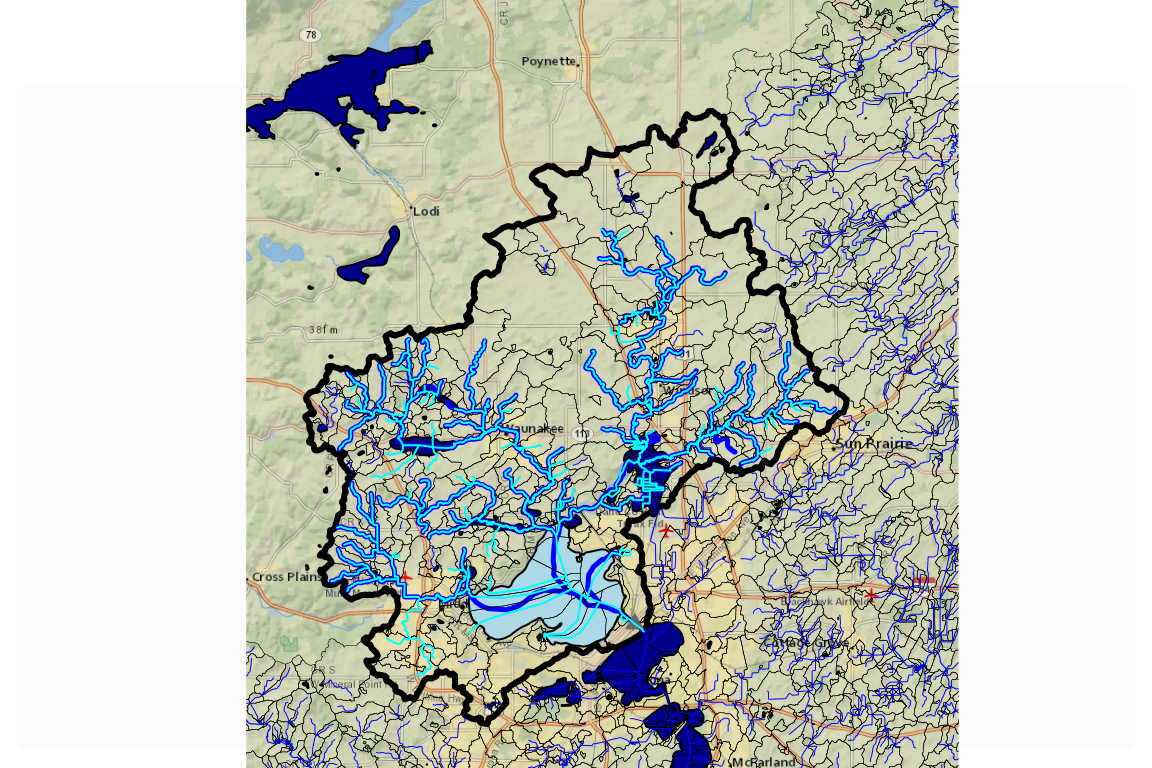
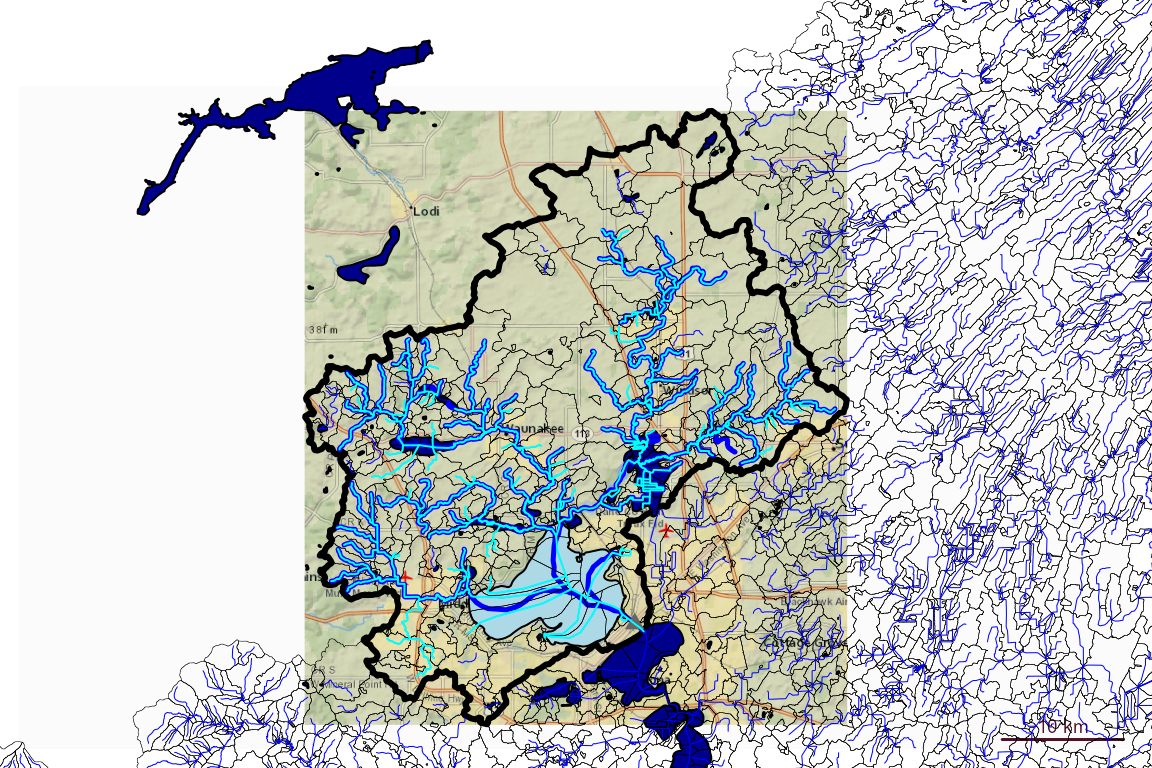
Merge pull request #471 from DOI-USGS/release-1.5.0
Release 1.5.0

Pull request: Release 1.5.0

Changed region(s): [[0.0938, 0.0, 1.0, 1.0], [0.0, 0.9688, 0.0312, 1.0]]

diff --git a/docs/CLAUDE.html b/docs/CLAUDE.html
@@ -17,7 +17,7 @@
       </button>
       <span class="navbar-brand">
         <a class="navbar-link" href="index.html">nhdplusTools</a>
-        <span class="version label label-default" data-toggle="tooltip" data-placement="bottom" title="">1.5.0.9000</span>
+        <span class="version label label-default" data-toggle="tooltip" data-placement="bottom" title="">1.5.0</span>
       </span>
     </div>
 
@@ -54,15 +54,36 @@
 
 
 <div class="section level2">
+<h2 id="rename-to-hydrogeofetch">Rename to <code>hydrogeofetch</code>
+<a class="anchor" aria-label="anchor" href="#rename-to-hydrogeofetch"></a></h2>
+<p><code>nhdplusTools</code> is being renamed to <code>hydrogeofetch</code> (hydrologic geospatial fabric extraction tool chain) with a 2-year sunset ending <strong>October 2028</strong>, at which point <code>nhdplusTools</code> will be archived on CRAN.</p>
+<ul><li>
+<strong>Pure rename</strong>: function names and signatures stay identical in <code>hydrogeofetch</code> v1.0. No renames or signature changes during the sunset — the shim depends on stability. Cleanup happens post-archive or in <code>hydrogeofetch</code> 2.0 with its own deprecation cycle.</li>
+<li>
+<strong><code>hydrogeofetch</code> v1.0</strong> is a drop-in equivalent with some non-breaking updates.</li>
+<li>
+<strong><code>nhdplusTools</code> API is frozen</strong>. Critical bug fixes only — no features, no refactors, unless explicitly asked.</li>
+<li>
+<strong>Shim</strong>: once <code>hydrogeofetch</code> is on CRAN, <code>nhdplusTools</code> becomes function-level <code><a href="https://rdrr.io/r/base/Deprecated.html" class="external-link">.Deprecated()</a></code> aliases forwarding to <code>hydrogeofetch::*</code>. Maintained as a branch in the renamed repo.</li>
+<li>
+<strong>Repo</strong>: rename in place to <code>hydrogeofetch</code> (preserves issues, PRs, redirects). Timing within the sunset window.</li>
+<li>
+<strong>Cache</strong>: <code>hydrogeofetch</code> replaces the cache layer with no migration; users re-download on switch.</li>
+<li>
+<strong>Reverse deps</strong> (small, friendly): <code>amadeus</code>, <code>elfgen</code>, <code>StreamCatTools</code> — coordinate directly.</li>
+<li>
+<strong>DOIs</strong>: USGS-minted. <code>hydrogeofetch</code> gets a new USGS software release on code.usgs.gov with its own DOI. The existing <code>nhdplusTools</code> DOI will redirect to a historical release page for <code>hydrogeofetch</code>.</li>
+<li>
+<strong>USGS software release</strong> for <code>hydrogeofetch</code> starts as soon as the renamed code is on GitHub, before CRAN submission.</li>
+</ul><p>When working in this repo, treat <code>nhdplusTools</code> as frozen and <code>hydrogeofetch</code> v1.x as the future canonical line. Avoid signature changes to public functions — they break the shim.</p>
+</div>
+<div class="section level2">
 <h2 id="commands">Commands<a class="anchor" aria-label="anchor" href="#commands"></a></h2>
 <ul><li><code><a href="https://devtools.r-lib.org/reference/test.html" class="external-link">devtools::test()</a></code></li>
 <li>
 <code><a href="https://devtools.r-lib.org/reference/check.html" class="external-link">devtools::check()</a></code> — R CMD check</li>
 <li>
 <code><a href="https://devtools.r-lib.org/reference/document.html" class="external-link">devtools::document()</a></code> — rebuild roxygen docs</li>
-<li>Rscript: <code>/c/Users/dblodgett/AppData/Local/Programs/R/R-4.5.2/bin/Rscript.exe</code>
-</li>
-<li>multiline commands must be run in a script to avoid terminal errors (segfaults)</li>
 </ul></div>
 <div class="section level2">
 <h2 id="style">Style<a class="anchor" aria-label="anchor" href="#style"></a></h2>

diff --git a/docs/index.html b/docs/index.html
@@ -39,7 +39,7 @@
       </button>
       <span class="navbar-brand">
         <a class="navbar-link" href="index.html">nhdplusTools</a>
-        <span class="version label label-default" data-toggle="tooltip" data-placement="bottom" title="">1.5.0.9000</span>
+        <span class="version label label-default" data-toggle="tooltip" data-placement="bottom" title="">1.5.0</span>
       </span>
     </div>
 
@@ -82,6 +82,15 @@
 <div class="page-header"><h1 id="nhdplustools-">nhdplusTools <img src="reference/figures/logo.png" align="right" alt="" width="120"><a class="anchor" aria-label="anchor" href="#nhdplustools-"></a>
 </h1></div>
 <p><img src="https://github.com/doi-usgs/nhdplusTools/workflows/R-CMD-check/badge.svg" alt="R-CMD-check"><a href="https://app.codecov.io/gh/doi-usgs/nhdplusTools" class="external-link"><img src="https://codecov.io/gh/doi-usgs/nhdplusTools/branch/master/graph/badge.svg" alt="codecov"></a> <a href="https://cran.r-project.org/package=nhdplusTools" class="external-link"><img src="https://cranlogs.r-pkg.org/badges/grand-total/nhdplusTools" alt="CRAN Downloads"></a> <a href="https://cran.r-project.org/package=nhdplusTools" class="external-link"><img src="https://www.r-pkg.org/badges/version/nhdplusTools" alt="CRAN"></a></p>
+<div class="section level2">
+<h2 id="renaming-to-hydrogeofetch">Renaming to <code>hydrogeofetch</code>
+<a class="anchor" aria-label="anchor" href="#renaming-to-hydrogeofetch"></a>
+</h2>
+<p><code>nhdplusTools</code> is being renamed to <code>hydrogeofetch</code> (hydrologic geospatial fabric extraction tool chain). The package’s scope has grown beyond NHDPlus, and the name is no longer accurate. <code>hydrogeofetch</code> will be a pure rename. Functions, function signatures, behavior, will all stay the same. <code>hydrogeofetch</code> will be published to CRAN as a new package.</p>
+<p>Development on <code>nhdplusTools</code> has stopped; only critical bug fixes will be applied. Once <code>hydrogeofetch</code> v1.0 is released, <code>nhdplusTools</code> will become a deprecation shim that forwards calls to <code>hydrogeofetch</code> with a deprecation warnings. The shim will remain on CRAN until <strong>October 2028</strong>, at which point <code>nhdplusTools</code> will be archived. Archived packages stay installable from the CRAN archive, so code pinned to <code>nhdplusTools</code> will continue to run.</p>
+<p>Plan to switch to <code>hydrogeofetch</code> once v1.0 is available.</p>
+<p>Follow this repository to keep up to date!</p>
+</div>
 <div class="section level2">
 <h2 id="nhdplustools-tools-for-accessing-and-working-with-the-nhdplus-and-other-us-hydrographic-data">nhdplusTools: Tools for Accessing and Working with the NHDPlus and other US hydrographic data.<a class="anchor" aria-label="anchor" href="#nhdplustools-tools-for-accessing-and-working-with-the-nhdplus-and-other-us-hydrographic-data"></a>
 </h2>
@@ -239,10 +248,7 @@
 <div class="section level1">
 <h1 id="disclaimer">Disclaimer<a class="anchor" aria-label="anchor" href="#disclaimer"></a>
 </h1>
-<p>This information is preliminary or provisional and is subject to revision. It is being provided to meet the need for timely best science. The information has not received final approval by the U.S. Geological Survey (USGS) and is provided on the condition that neither the USGS nor the U.S. Government shall be held liable for any damages resulting from the authorized or unauthorized use of the information.</p>
-<p>From: <a href="https://www.usgs.gov/office-of-science-quality-and-integrity/fundamental-science-practices#5" class="external-link uri">https://www.usgs.gov/office-of-science-quality-and-integrity/fundamental-science-practices#5</a></p>
-<p>This software is in the public domain because it contains materials that originally came from the U.S. Geological Survey, an agency of the United States Department of Interior. For more information, see the <a href="https://www.usgs.gov/information-policies-and-instructions/copyrights-and-credits" title="official USGS copyright policy" class="external-link">official USGS copyright policy</a></p>
-<p>Although this software program has been used by the USGS, no warranty, expressed or implied, is made by the USGS or the U.S. Government as to the accuracy and functioning of the program and related program material nor shall the fact of distribution constitute any such warranty, and no responsibility is assumed by the USGS in connection therewith. This software is provided “AS IS.”</p>
+<p>This software is preliminary or provisional and is subject to revision. It is being provided to meet the need for timely best science. The software has not received final approval by the U.S. Geological Survey (USGS). No warranty, expressed or implied, is made by the USGS or the U.S. Government as to the functionality of the software and related material nor shall the fact of release constitute any such warranty. The software is provided on the condition that neither the USGS nor the U.S. Government shall be held liable for any damages resulting from the authorized or unauthorized use of the software.</p>
 <p><a href="https://creativecommons.org/publicdomain/zero/1.0/" class="external-link"><img src="https://i.creativecommons.org/p/zero/1.0/88x31.png" alt="CC0"></a></p>
 </div>
 

diff --git a/docs/DISCLAIMER.html b/docs/DISCLAIMER.html
@@ -17,7 +17,7 @@
       </button>
       <span class="navbar-brand">
         <a class="navbar-link" href="index.html">nhdplusTools</a>
-        <span class="version label label-default" data-toggle="tooltip" data-placement="bottom" title="">1.5.0.9000</span>
+        <span class="version label label-default" data-toggle="tooltip" data-placement="bottom" title="">1.5.0</span>
       </span>
     </div>
 
@@ -54,9 +54,7 @@
 
 <div id="disclaimer" class="section level1">
 
-<p>This software has been approved for release by the U.S. Geological Survey (USGS). Although the software has been subjected to rigorous review, the USGS reserves the right to update the software as needed pursuant to further analysis and review. No warranty, expressed or implied, is made by the USGS or the U.S. Government as to the functionality of the software and related material nor shall the fact of release constitute any such warranty. Furthermore, the software is released on condition that neither the USGS nor the U.S. Government shall be held liable for any damages resulting from its authorized or unauthorized use.</p>
-<p>From: <a href="https://www2.usgs.gov/fsp/fsp_disclaimers.asp#5" class="external-link uri">https://www2.usgs.gov/fsp/fsp_disclaimers.asp#5</a></p>
-<p>This software is in the public domain because it contains materials that originally came from the U.S. Geological Survey, an agency of the United States Department of Interior. For more information, see the <a href="https://www.usgs.gov/information-policies-and-instructions/copyrights-and-credits" title="official USGS copyright policy" class="external-link">official USGS copyright policy</a></p>
+<p>This software is preliminary or provisional and is subject to revision. It is being provided to meet the need for timely best science. The software has not received final approval by the U.S. Geological Survey (USGS). No warranty, expressed or implied, is made by the USGS or the U.S. Government as to the functionality of the software and related material nor shall the fact of release constitute any such warranty. The software is provided on the condition that neither the USGS nor the U.S. Government shall be held liable for any damages resulting from the authorized or unauthorized use of the software.</p>
 </div>
 
   </div>

diff --git a/docs/articles/drainage_area_estimation.html b/docs/articles/drainage_area_estimation.html
@@ -37,7 +37,7 @@
       </button>
       <span class="navbar-brand">
         <a class="navbar-link" href="../index.html">nhdplusTools</a>
-        <span class="version label label-default" data-toggle="tooltip" data-placement="bottom" title="">1.5.0.9000</span>
+        <span class="version label label-default" data-toggle="tooltip" data-placement="bottom" title="">1.5.0</span>
       </span>
     </div>
 
@@ -105,6 +105,8 @@ img {
   font-size: 0.9em;
 }
 </style>
+<p><em>A fully rendered version of this vignette with figures is
+available at <a href="https://doi-usgs.github.io/nhdplusTools/articles/drainage_area_estimation.html" class="uri">https://doi-usgs.github.io/nhdplusTools/articles/drainage_area_estimation.html</a>.</em></p>
 <p><code><a href="../reference/get_drainage_area_estimates.html">get_drainage_area_estimates()</a></code> combines Watershed
 Boundary Dataset (WBD) delineations and non-surface-contributing area
 estimates with National Hydrography Dataset Plus version 2 (NHDPlusV2)

diff --git a/docs/authors.html b/docs/authors.html
@@ -17,7 +17,7 @@
       </button>
       <span class="navbar-brand">
         <a class="navbar-link" href="index.html">nhdplusTools</a>
-        <span class="version label label-default" data-toggle="tooltip" data-placement="bottom" title="">1.5.0.9000</span>
+        <span class="version label label-default" data-toggle="tooltip" data-placement="bottom" title="">1.5.0</span>
       </span>
     </div>
 
@@ -89,7 +89,7 @@
   title = {nhdplusTools: Tools for Accessing and Working with the NHDPlus},
   publisher = {U.S. Geological Survey},
   address = {Reston, VA},
-  version = {1.4.0},
+  version = {1.5.0},
   institution = {U.S. Geological Survey},
   year = {2025},
   url = {https://doi.org/10.5066/P97AS8JD},

diff --git a/docs/reference/get_drainage_area_estimates.html b/docs/reference/get_drainage_area_estimates.html
@@ -20,7 +20,7 @@
       </button>
       <span class="navbar-brand">
         <a class="navbar-link" href="../index.html">nhdplusTools</a>
-        <span class="version label label-default" data-toggle="tooltip" data-placement="bottom" title="">1.5.0.9000</span>
+        <span class="version label label-default" data-toggle="tooltip" data-placement="bottom" title="">1.5.0</span>
       </span>
     </div>
 
@@ -270,7 +270,6 @@ at the gage point and only the upstream portion is included. Default 100.</p></d
 <span class="r-msg co"><span class="r-pr">#&gt;</span>   Distance to outlet: 110 m (threshold 100 m =&gt; split needed)</span>
 <span class="r-msg co"><span class="r-pr">#&gt;</span> Finding HUC12 pour points upstream via NLDI...</span>
 <span class="r-msg co"><span class="r-pr">#&gt;</span> Fetching flowline attributes for 70 upstream COMIDs...</span>
-<span class="r-msg co"><span class="r-pr">#&gt;</span> Request failed [504]. Retrying in 7.1 seconds...</span>
 <span class="r-msg co"><span class="r-pr">#&gt;</span>   70 flowlines, totdasqkm = 114.34</span>
 <span class="r-msg co"><span class="r-pr">#&gt;</span>   Found 1 HUC12 outlets</span>
 <span class="r-msg co"><span class="r-pr">#&gt;</span> Finding immediately-upstream HUC12 outlets...</span>
@@ -283,7 +282,6 @@ at the gage point and only the upstream portion is included. Default 100.</p></d
 <span class="r-msg co"><span class="r-pr">#&gt;</span> Splitting outlet catchment at gage point...</span>
 <span class="r-msg co"><span class="r-pr">#&gt;</span>   Outlet split: full=1.07 km2, upstream=1.05 km2, removed=0.01 km2</span>
 <span class="r-msg co"><span class="r-pr">#&gt;</span> Fetching extra catchment geometries...</span>
-<span class="r-msg co"><span class="r-pr">#&gt;</span> Request failed [504]. Retrying in 9.5 seconds...</span>
 <span class="r-msg co"><span class="r-pr">#&gt;</span>   HUC12 DA = 118.03, contributing = 118.03</span>
 <span class="r-msg co"><span class="r-pr">#&gt;</span>   Network DA = 114.34</span>
 <span class="r-msg co"><span class="r-pr">#&gt;</span> Computing NHDPlusHR drainage area estimate...</span>

diff --git a/docs/news/index.html b/docs/news/index.html
@@ -17,7 +17,7 @@
       </button>
       <span class="navbar-brand">
         <a class="navbar-link" href="../index.html">nhdplusTools</a>
-        <span class="version label label-default" data-toggle="tooltip" data-placement="bottom" title="">1.5.0.9000</span>
+        <span class="version label label-default" data-toggle="tooltip" data-placement="bottom" title="">1.5.0</span>
       </span>
     </div>
 
@@ -55,6 +55,7 @@
 
     <div class="section level2">
 <h2 class="page-header" data-toc-text="1.5.0" id="nhdplustools-150">nhdplusTools 1.5.0<a class="anchor" aria-label="anchor" href="#nhdplustools-150"></a></h2>
+<p>nhdplusTools 1.5.0 will be the last minor release of nhdplusTools before the package is renamed. Path releases may occur to fix minor issues or change things necessary for the name change, but the API is effectively frozen and all new development will go toward the replacement package <code>hydrogeofetch</code>. For more, see the README.md.</p>
 <p>This release adds drainage area estimation tooling that combines HUC12 areas with NHDPlusV2 catchments to produce drainage area estimates at arbitrary points on the network.</p>
 <ul><li><p>New <code><a href="../reference/get_drainage_area_estimates.html">get_drainage_area_estimates()</a></code> returns total and contributing-only drainage area estimates at HUC12, HUC10, and HUC08 resolutions, alongside a network-derived comparison value and an optional NHDPlusHR-catchment estimate. Non-contributing areas (from the HUC12 <code>ncontrb_a</code> attribute) are accounted for.</p></li>
 <li><p>Between the start point and the nearest upstream HUC12 outlets, NHDPlusV2 catchment areas are used; upstream of those outlets, HUC12 areas are used. The outlet catchment is split at the start point when it is more than <code>outlet_split_threshold_m</code> upstream of the catchment outlet.</p></li>

diff --git a/docs/404.html b/docs/404.html
@@ -38,7 +38,7 @@
       </button>
       <span class="navbar-brand">
         <a class="navbar-link" href="https://doi-usgs.github.io/nhdplusTools/index.html">nhdplusTools</a>
-        <span class="version label label-default" data-toggle="tooltip" data-placement="bottom" title="">1.5.0.9000</span>
+        <span class="version label label-default" data-toggle="tooltip" data-placement="bottom" title="">1.5.0</span>
       </span>
     </div>
 

diff --git a/docs/LICENSE.html b/docs/LICENSE.html
@@ -17,7 +17,7 @@
       </button>
       <span class="navbar-brand">
         <a class="navbar-link" href="index.html">nhdplusTools</a>
-        <span class="version label label-default" data-toggle="tooltip" data-placement="bottom" title="">1.5.0.9000</span>
+        <span class="version label label-default" data-toggle="tooltip" data-placement="bottom" title="">1.5.0</span>
       </span>
     </div>
 

diff --git a/docs/articles/index.html b/docs/articles/index.html
@@ -17,7 +17,7 @@
       </button>
       <span class="navbar-brand">
         <a class="navbar-link" href="../index.html">nhdplusTools</a>
-        <span class="version label label-default" data-toggle="tooltip" data-placement="bottom" title="">1.5.0.9000</span>
+        <span class="version label label-default" data-toggle="tooltip" data-placement="bottom" title="">1.5.0</span>
       </span>
     </div>
 

diff --git a/docs/articles/nhdplushr.html b/docs/articles/nhdplushr.html
@@ -37,7 +37,7 @@
       </button>
       <span class="navbar-brand">
         <a class="navbar-link" href="../index.html">nhdplusTools</a>
-        <span class="version label label-default" data-toggle="tooltip" data-placement="bottom" title="">1.5.0.9000</span>
+        <span class="version label label-default" data-toggle="tooltip" data-placement="bottom" title="">1.5.0</span>
       </span>
     </div>
 

diff --git a/docs/reference/index.html b/docs/reference/index.html
@@ -17,7 +17,7 @@
       </button>
       <span class="navbar-brand">
         <a class="navbar-link" href="../index.html">nhdplusTools</a>
-        <span class="version label label-default" data-toggle="tooltip" data-placement="bottom" title="">1.5.0.9000</span>
+        <span class="version label label-default" data-toggle="tooltip" data-placement="bottom" title="">1.5.0</span>
       </span>
     </div>
 